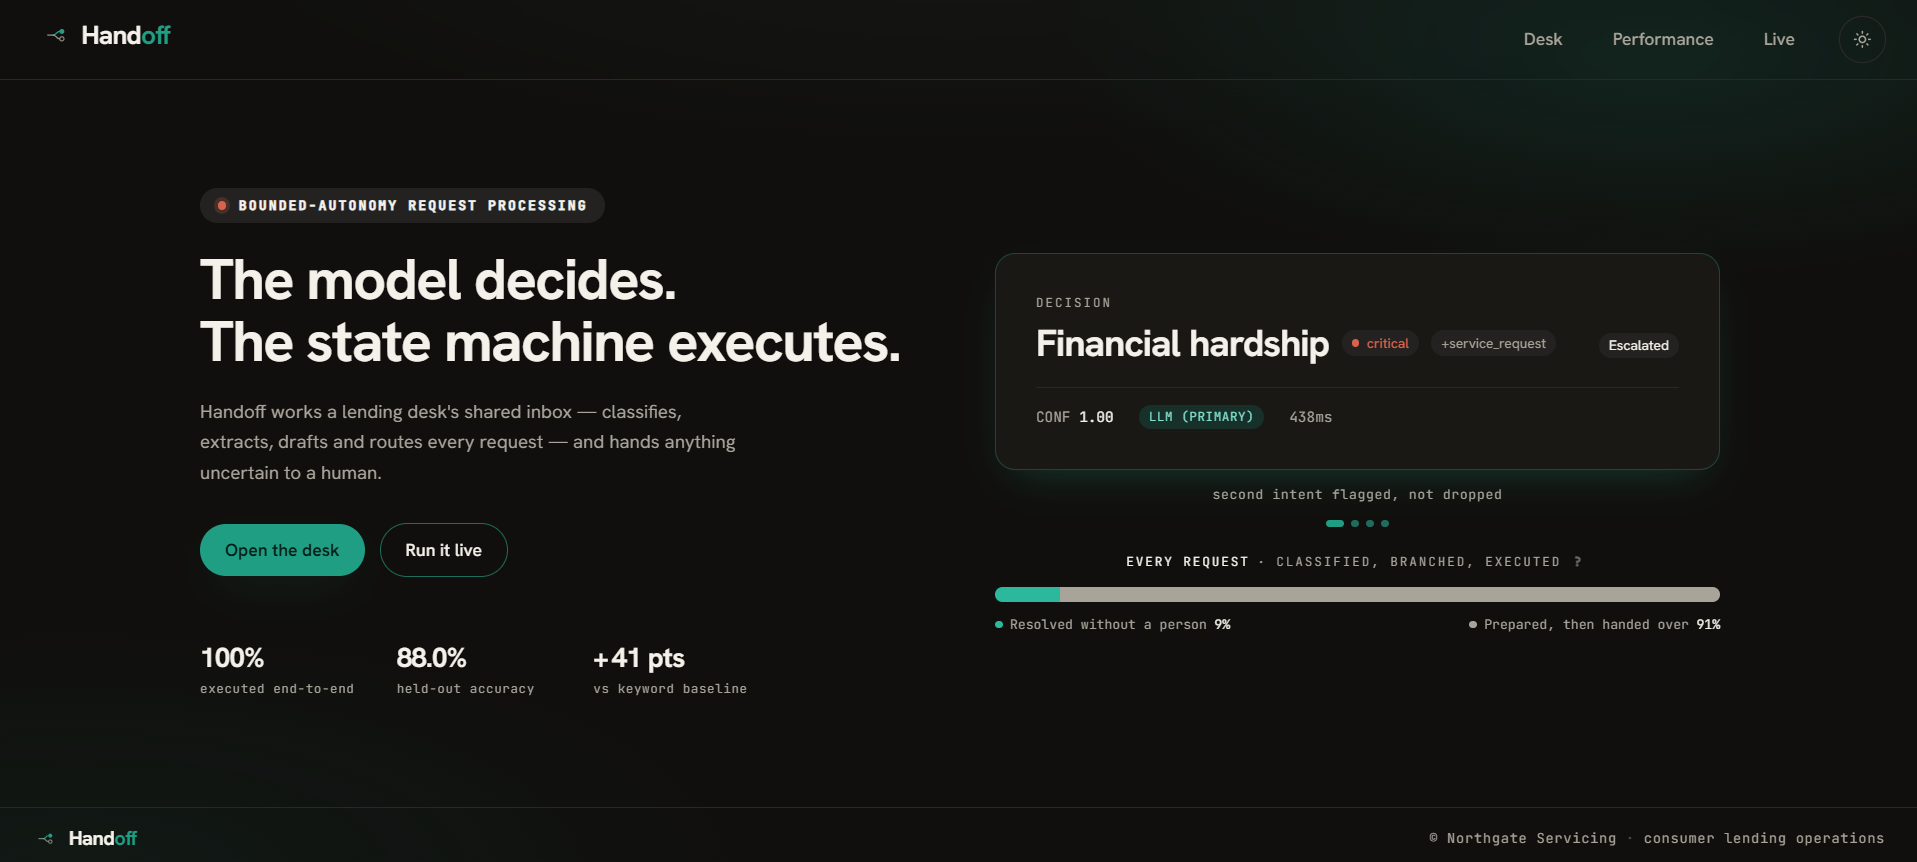
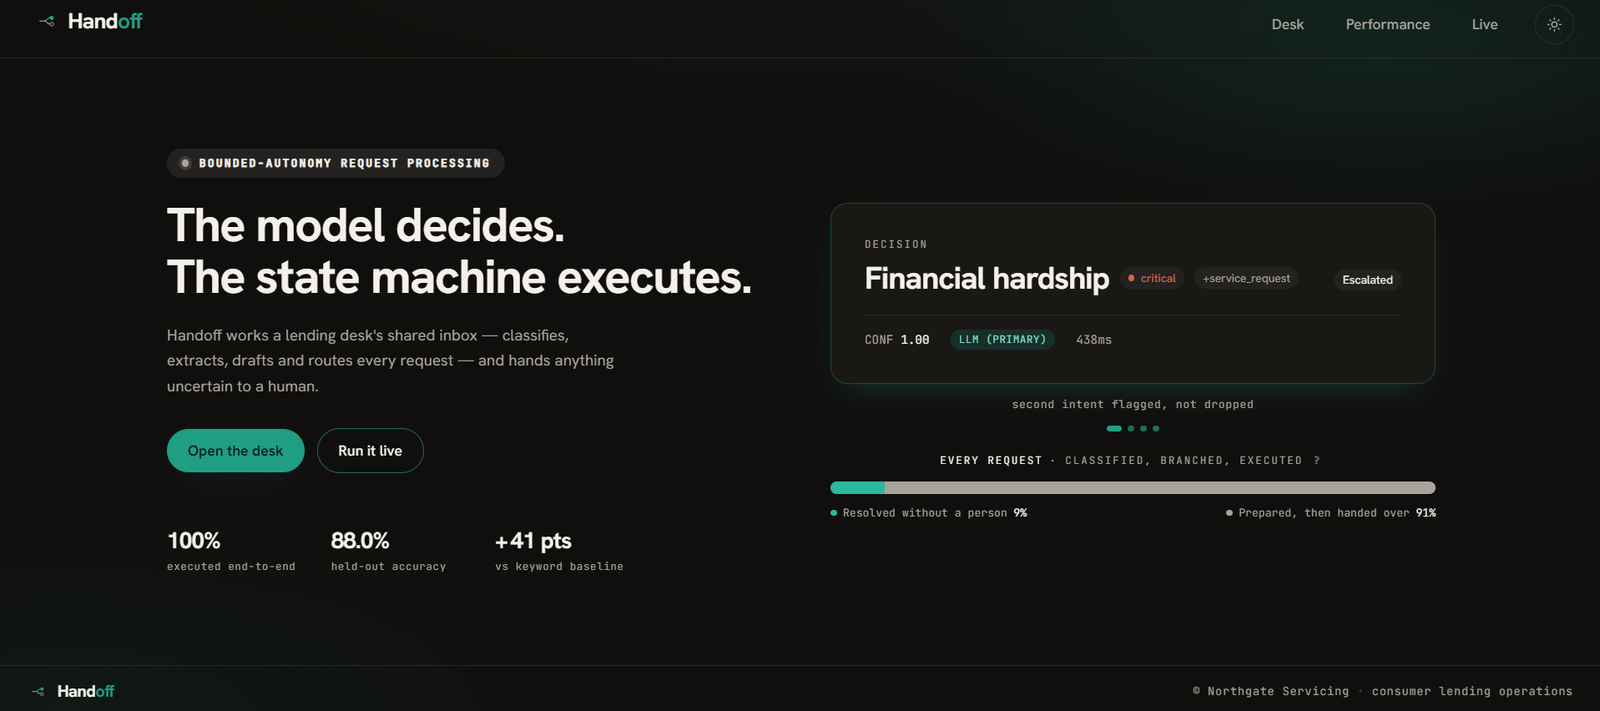
docs: README with product screenshots and pipeline diagram

diff --git a/README.md b/README.md
@@ -1,5 +1,7 @@
 <div align="center">
 
+<img src="web/app/apple-icon.png" width="72" alt="">
+
 # Handoff
 
 ### Bounded-autonomy request triage for a UK consumer lending desk. Every request classified, branched and executed automatically — and anything uncertain handed to a person, on purpose.
@@ -20,15 +22,23 @@
 ![Baseline](https://img.shields.io/badge/vs_keyword_baseline-%2B41_pts-2EA043)
 ![Branch completion](https://img.shields.io/badge/branch_completion-100%25-2EA043)
 ![Tests](https://img.shields.io/badge/tests-27_passing_offline-2EA043)
-![Streamlit](https://img.shields.io/badge/Streamlit-not_used-6C757D)
 
-**[🌐 Live app](https://handoff-triage.vercel.app)** · **[▶ 3-min demo](https://drive.google.com/file/d/1VyTk0n66fB1LlFOP8a9ld2dlqyUwe834/view?usp=sharing)** · **[📊 Deck](docs/Ayush_Gupta_Incoming_Request_Processing_Workflow.pdf)** · **[📈 Eval reports](docs/eval/)** · **[🧭 Decisions](docs/DECISIONS.md)**
+**[🌐 Live app](https://handoff-triage.vercel.app)** · **[▶ 3-min demo](https://drive.google.com/file/d/1VyTk0n66fB1LlFOP8a9ld2dlqyUwe834/view?usp=sharing)** · **[📊 Design summary](docs/Ayush_Gupta_Incoming_Request_Processing_Workflow.pdf)** · **[📈 Eval reports](docs/eval/)** · **[🧭 Decisions](docs/DECISIONS.md)**
 
 </div>
 
+> **On the two names.** The repository is `Request-Triage` — what the system does.
+> **Handoff** is what the product is called, after the thing it is actually built
+> around: the moment it stops, and gives a case to a person.
+
+<div align="center">
+<img src="docs/img/landing.png" width="880" alt="Handoff landing page — the model decides, the state machine executes">
+</div>
+
+
 ---
 
-A lending operations desk takes a continuous stream of requests by email, web form and shared inbox. Today a person reads every one of them and decides what happens next — which is *slow*, *inconsistent*, and *dependent on individual judgment*. Those are the brief's own three words, and they are the design targets.
+A lending operations desk takes a continuous stream of requests by email, web form and shared inbox. Today a person reads every one of them and decides what happens next — which is *slow*, *inconsistent*, and *dependent on individual judgment*. Those three words are the design targets.
 
 Handoff reads each request, classifies it by **type** and **urgency** as independent axes, runs a deterministic branch of remediation steps, and hands anything it cannot safely finish to a person. **The model decides. The state machine executes.**
 
@@ -39,7 +49,7 @@ Every number below is measured on a held-out split that was executed once and sc
 | | What | Where |
 |---|---|---|
 | 🌐 **Live app** | Opens cold in demo mode from committed batch data — no keys, no network | **[handoff-triage.vercel.app](https://handoff-triage.vercel.app)** |
-| ▶ **Demo** | 3-minute narrated walkthrough: classification, guardrail escalation, duplicate suppression, provider outage, human override | **[Watch](https://drive.google.com/file/d/1VyTk0n66fB1LlFOP8a9ld2dlqyUwe834/view?usp=sharing)** |
+| ▶ **Demo** | 3-minute narrated walkthrough: classification, guardrail escalation, duplicate suppression, provider outage, human override | **[Watch](DEMO_VIDEO_URL_HERE)** |
 | 🖥 **Live mode** | Paste your own message, run it through the real pipeline, simulate a provider outage, override the result | [/live](https://handoff-triage.vercel.app/live) |
 | 📈 **Reproduce the numbers** | Recompute every published figure from committed runs, zero API calls | [below](#setup) |
 
@@ -89,25 +99,10 @@ corpus is in `data/corpus/`.
 
 ## How a request is processed
 
-```mermaid
-flowchart LR
-    IN([web form · batch upload · shared inbox]) --> DUP{duplicate?}
-    DUP -->|fingerprint hit| SUP[suppressed<br/>no model call]
-    DUP -->|new| CLS[classify · LLM<br/>type × urgency · entities · rationale]
-    CLS --> GR[guardrails<br/>escalate only]
-    GR --> GATE{four gates}
-    GATE --> BR[branch executes<br/>deterministic steps]
-    BR --> ST[(audit store<br/>proposal + decision + trace)]
-    ST --> REV[review queue<br/>human override]
-    REV -->|re-runs corrected branch| BR
-
-    classDef io fill:#1f9e84,stroke:#0f7a66,color:#04201a;
-    classDef core fill:#1a1815,stroke:#2b2824,color:#f3f1ea;
-    classDef store fill:#173029,stroke:#0f7a66,color:#7fe0cb;
-    class IN,SUP io;
-    class DUP,CLS,GR,GATE,BR,REV core;
-    class ST store;
-```
+<div align="center">
+<img src="docs/img/pipeline.png" width="820" alt="Pipeline: intake, dedupe, classify, guardrails, execute — fanning out to five branches">
+<br><sub>Rendered inside the product, not drawn for the README. One stage is a model; everything downstream is deterministic.</sub>
+</div>
 
 **Classification is the only place the model acts.** It proposes a type, an
 urgency, extracted entities and a rationale. That proposal is stored as a
@@ -140,6 +135,11 @@ manager adds a request type by editing config — no developer, no deploy.
 
 ## Remediation branches
 
+<div align="center">
+<img src="docs/img/executed.png" width="620" alt="A hardship case executing six steps, with the drafted reply held for approval">
+<br><sub>A hardship case executing end to end — automation paused as step one, escalated, supervisor notified, and the reply drafted but <b>held for approval, not sent</b>.</sub>
+</div>
+
 Type selects the branch. Urgency modulates *within* it: it sets the SLA clock,
 adds conditional steps, and routes to a senior handler above a per-branch
 threshold.
@@ -158,7 +158,7 @@ step and can never auto-resolve.** The asymmetry is argued from cost: a false
 escalation wastes two minutes of an agent's time; a missed hardship disclosure
 is a regulatory and human failure. That is not a close call.
 
-### Coverage of the brief's four named actions
+### Action coverage
 
 | Branch | `generate_response` | `route_to_team` | `set_follow_up` | `log_outcome` |
 |---|:---:|:---:|:---:|:---:|
@@ -189,9 +189,13 @@ branch still executed end to end — it just could not close the case.
 
 ## The human side of the handoff
 
-The brief's hardest optional enhancement is *"an escalation override mechanism
-for edge cases the AI is uncertain about."* That phrase has two halves. The
-gates are the first. This is the second.
+<div align="center">
+<img src="docs/img/human-review.png" width="660" alt="Execution trace with two stacked human review corrections and an approval">
+<br><sub>The corrected branch re-ran for real — draft, collections hold, senior routing, SLA follow-up — then <b>two stacked corrections and an approval</b>, each recording what the model proposed, what the system decided, and what the reviewer changed it to. Nothing overwritten.</sub>
+</div>
+
+An escalation mechanism for cases the model is unsure of has two halves. The
+gates are the first — they demote. This is the second.
 
 A reviewer can override the type and urgency on any live case. When they do:
 
@@ -210,6 +214,10 @@ A reviewer can override the type and urgency on any live case. When they do:
   gate, because being sure of the *label* is not a source for the *draft*.
 
 ## Results
+
+<div align="center">
+<img src="docs/img/performance.png" width="880" alt="Performance dashboard: accuracy, keyword baseline, cross-family holdout, branch completion, volume by type and status">
+</div>
 
 Measured on a **100-example held-out split, executed once and scored once**, on
 `llama-3.3-70b-versatile`, single-tier provenance verified. 63,906 tokens,
@@ -278,17 +286,16 @@ And the dial has measured numbers on it. On the same held-out split:
 Automation rate is a policy choice with a priced curve, not a model limit. We
 shipped the conservative point and report the alternatives.
 
-**Full automation was never the goal.** The brief asks for automatic
-*processing*, and that is 100% — every request received, classified,
+**Full automation was never the goal.** Automatic *processing* is 100% — every request received, classified,
 entity-extracted, branched, drafted, routed, SLA-timed and logged with no person
 involved. Closure without a human is a stricter metric we imposed on ourselves,
 because a system that closes a hardship disclosure or a disputed charge by
 itself is a compliance incident, not a feature. The saving is handle time, not
 headcount.
 
-## The brief's optional enhancements
+## Operational surface
 
-| Enhancement | Where it lives |
+| Capability | Where it lives |
 |---|---|
 | Batch processing of multiple requests | The corpus pipeline is the product's spine — 200- and 100-case batches, plus a file-upload intake channel |
 | Processing log / audit trail | Model proposal and system decision stored separately, full step trace, provider tier and decision source per case |
@@ -311,17 +318,15 @@ Found by us, disclosed rather than discovered.
 - **No fine-tuning.** There is no labelled real data. The review queue captures every override as training signal, which is what a next version learns from.
 - **Responsive layout deferred.** The desk assumes a wide viewport — a deliberate trade against measurement time.
 
-## Why not Streamlit, n8n or Retool
+## Why a state machine, not a workflow tool
 
-The brief suggests them; we used none, which needs justifying rather than
-assuming. A system with authority to pause collections needs control flow that
+Streamlit, Gradio, n8n and Retool are the obvious shortcuts here, and none were
+used — which needs justifying rather than assuming. A system with authority to pause collections needs control flow that
 is replayable, unit-testable and reviewable in version control — so the state
 machine is Python and every safety property is a test. `workflows.yaml` keeps
 the declarative benefit those tools sell: an operations manager adds a request
-type by editing config, with no developer and no deploy. The brief lists
-"hosted application" as an accepted demo format, and its rubric scores
-classification, branching, reliability, communication and reflection — not
-tooling.
+type by editing config, with no developer and no deploy. The declarative layer
+without the black box.
 
 ## Stack
 
@@ -363,8 +368,7 @@ Request-Triage/
 
 <div align="center">
 
-**Built for the Firstsource Agentic AI Engineer POC · Option 2, Incoming Request Processing Workflow**
-
-*A triage system's job is to make an operations floor cheaper, faster, safer and more consistent to run. Restraint is a feature regulated clients pay for.*
+*A triage system's job is to make an operations floor cheaper, faster, safer and
+more consistent to run. Restraint is a feature regulated clients pay for.*
 
 </div>
